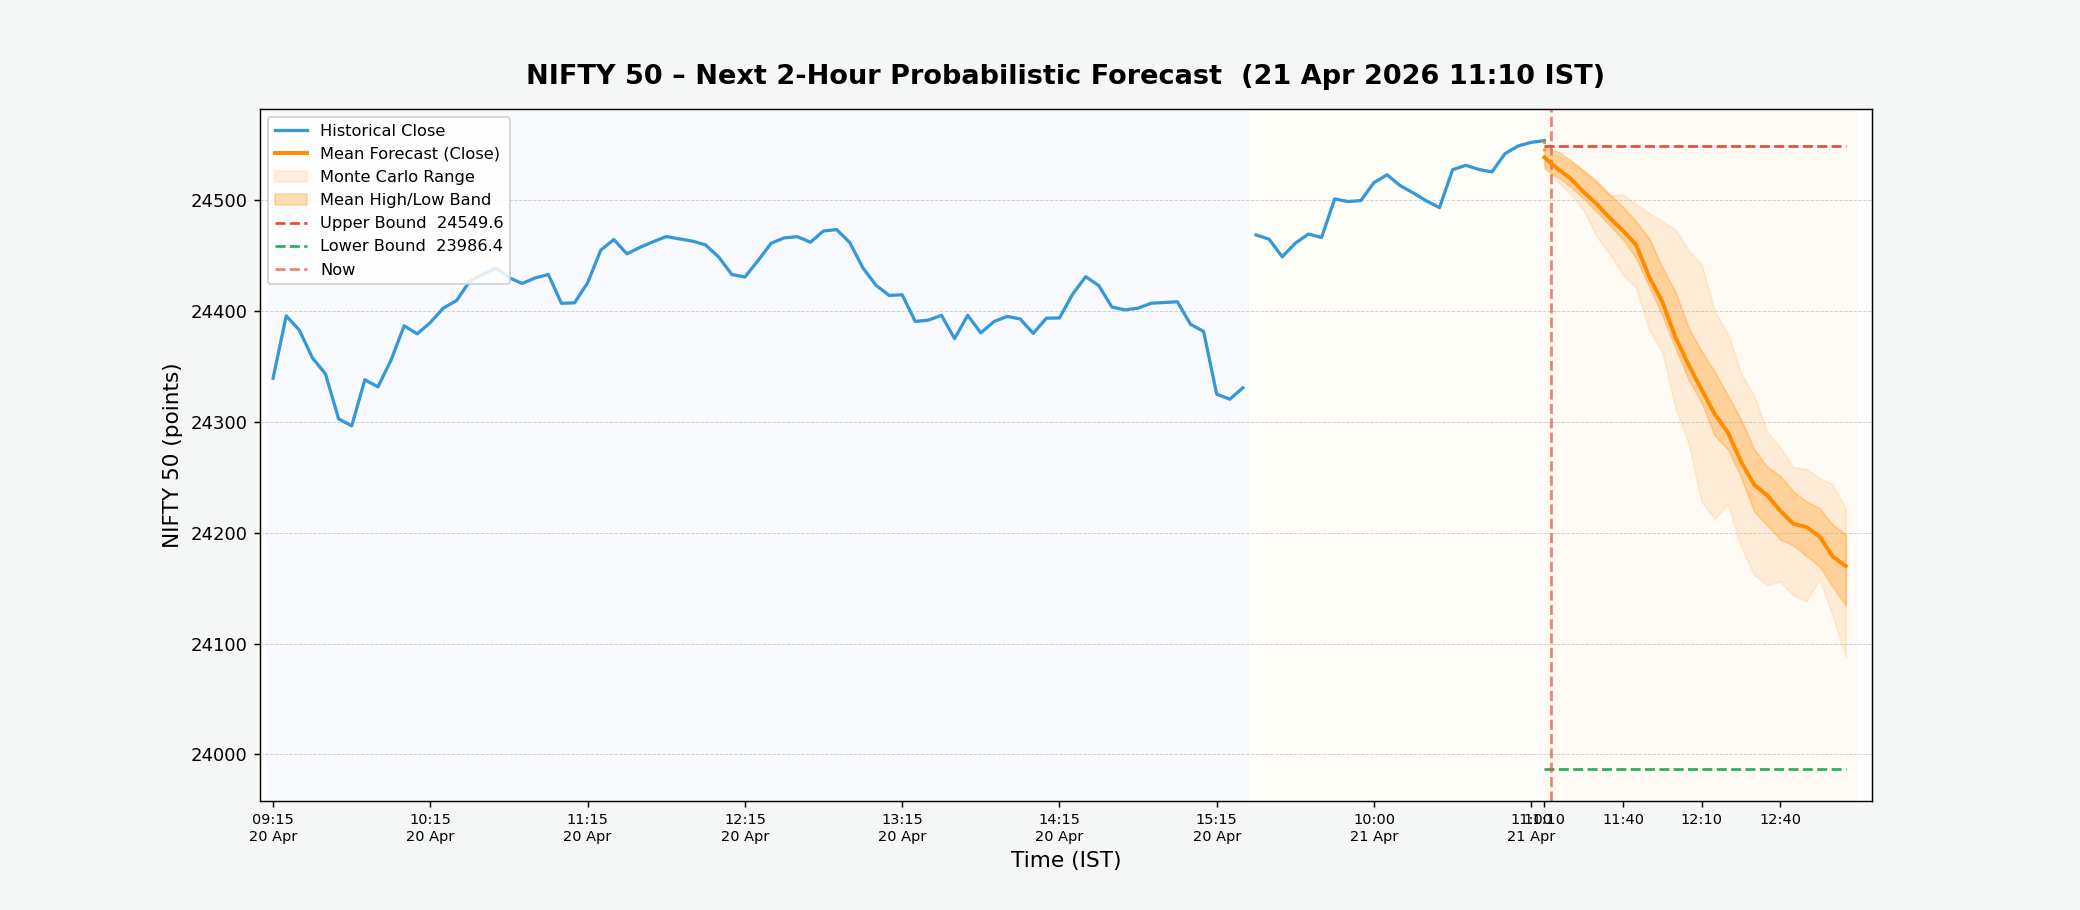
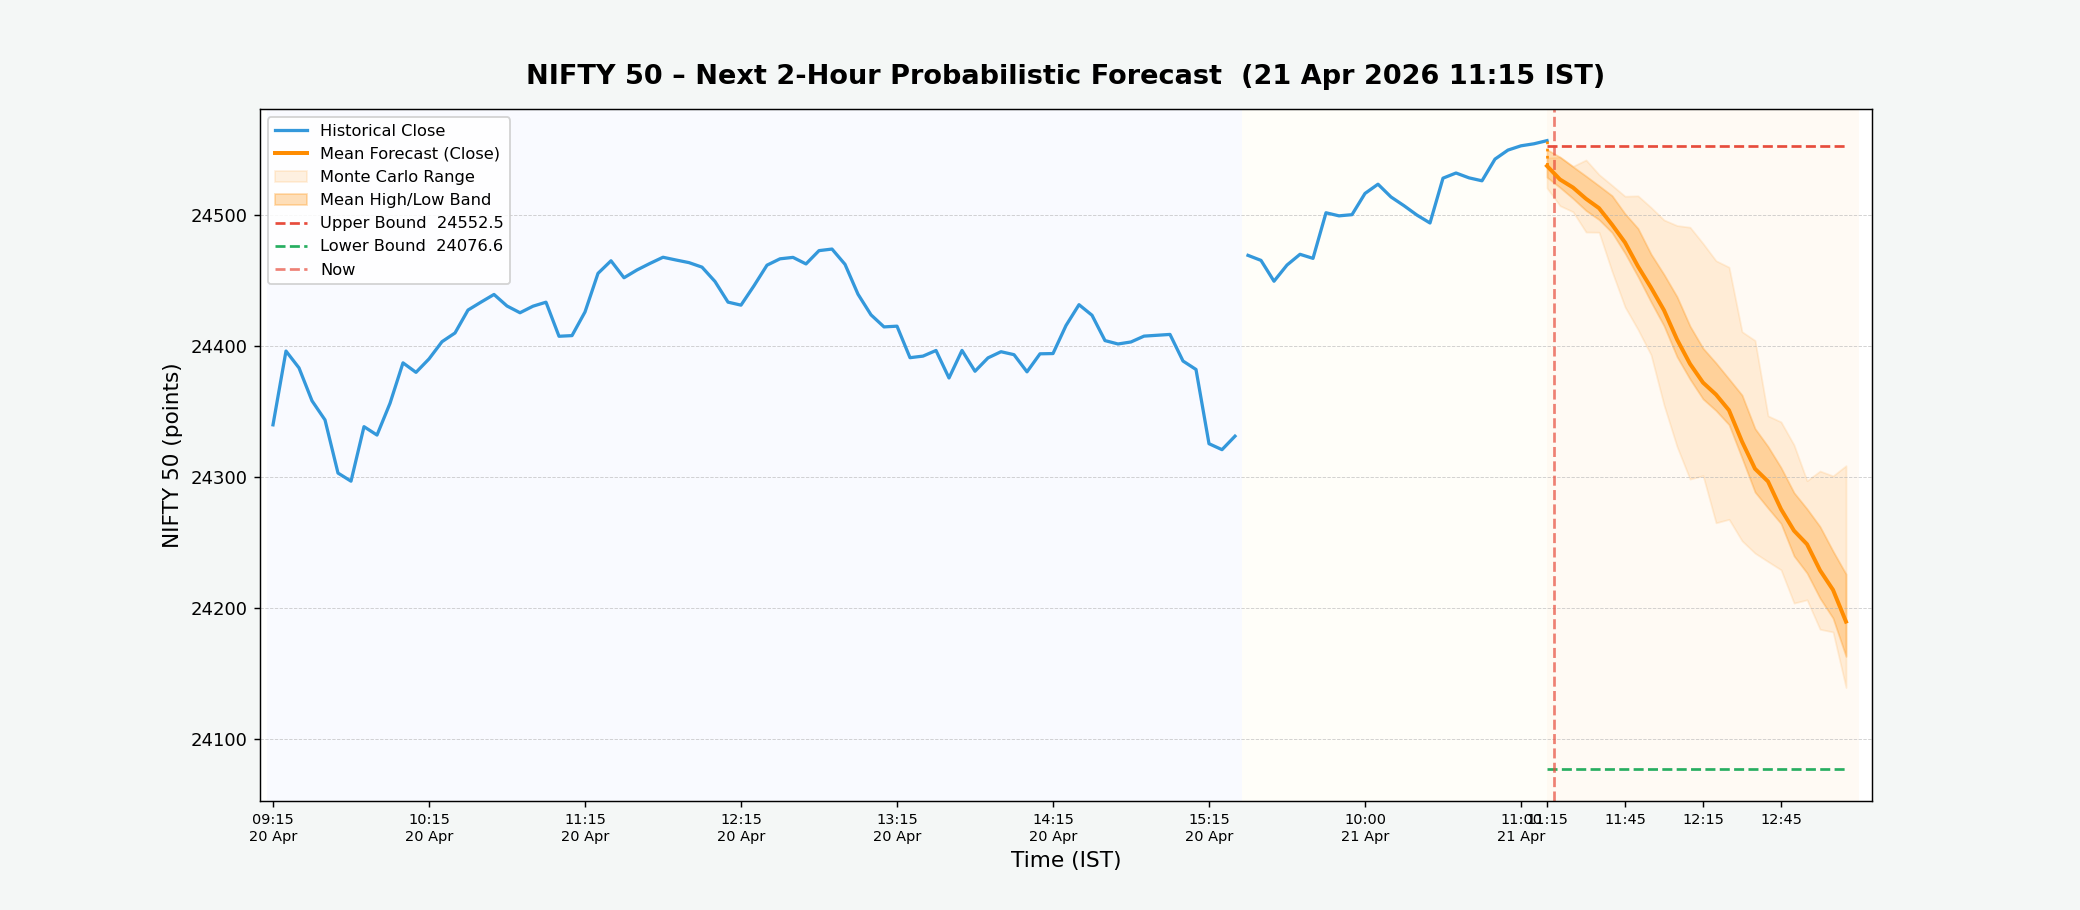
NIFTY forecast update – 2026-04-21 11:15 IST

diff --git a/index.html b/index.html
@@ -24,29 +24,29 @@
 
         <!-- Timestamp bar -->
         <div class="timestamp-bar">
-            <span>Last updated (IST):&nbsp;<strong id="update-time">2026-04-21 11:10:04</strong></span>
+            <span>Last updated (IST):&nbsp;<strong id="update-time">2026-04-21 11:15:04</strong></span>
         </div>
 
         <!-- Metric cards -->
         <div class="metrics-container">
             <div class="metric-card bullish">
                 <div class="metric-label">Bullish Bar Ratio</div>
-                <div class="metric-value" id="upside-prob">14.6%</div>
+                <div class="metric-value" id="upside-prob">10.0%</div>
                 <div class="metric-sub">Next 2h · close &gt; open %</div>
             </div>
             <div class="metric-card upper">
                 <div class="metric-label">Upper Bound</div>
-                <div class="metric-value" id="upper-bound">24549.6</div>
+                <div class="metric-value" id="upper-bound">24552.5</div>
                 <div class="metric-sub">Max predicted high</div>
             </div>
             <div class="metric-card lower">
                 <div class="metric-label">Lower Bound</div>
-                <div class="metric-value" id="lower-bound">23986.4</div>
+                <div class="metric-value" id="lower-bound">24076.6</div>
                 <div class="metric-sub">Min predicted low</div>
             </div>
             <div class="metric-card range">
                 <div class="metric-label">Predicted Range</div>
-                <div class="metric-value" id="pred-range">563.2 pts</div>
+                <div class="metric-value" id="pred-range">475.9 pts</div>
                 <div class="metric-sub">Upper − Lower spread</div>
             </div>
         </div>
